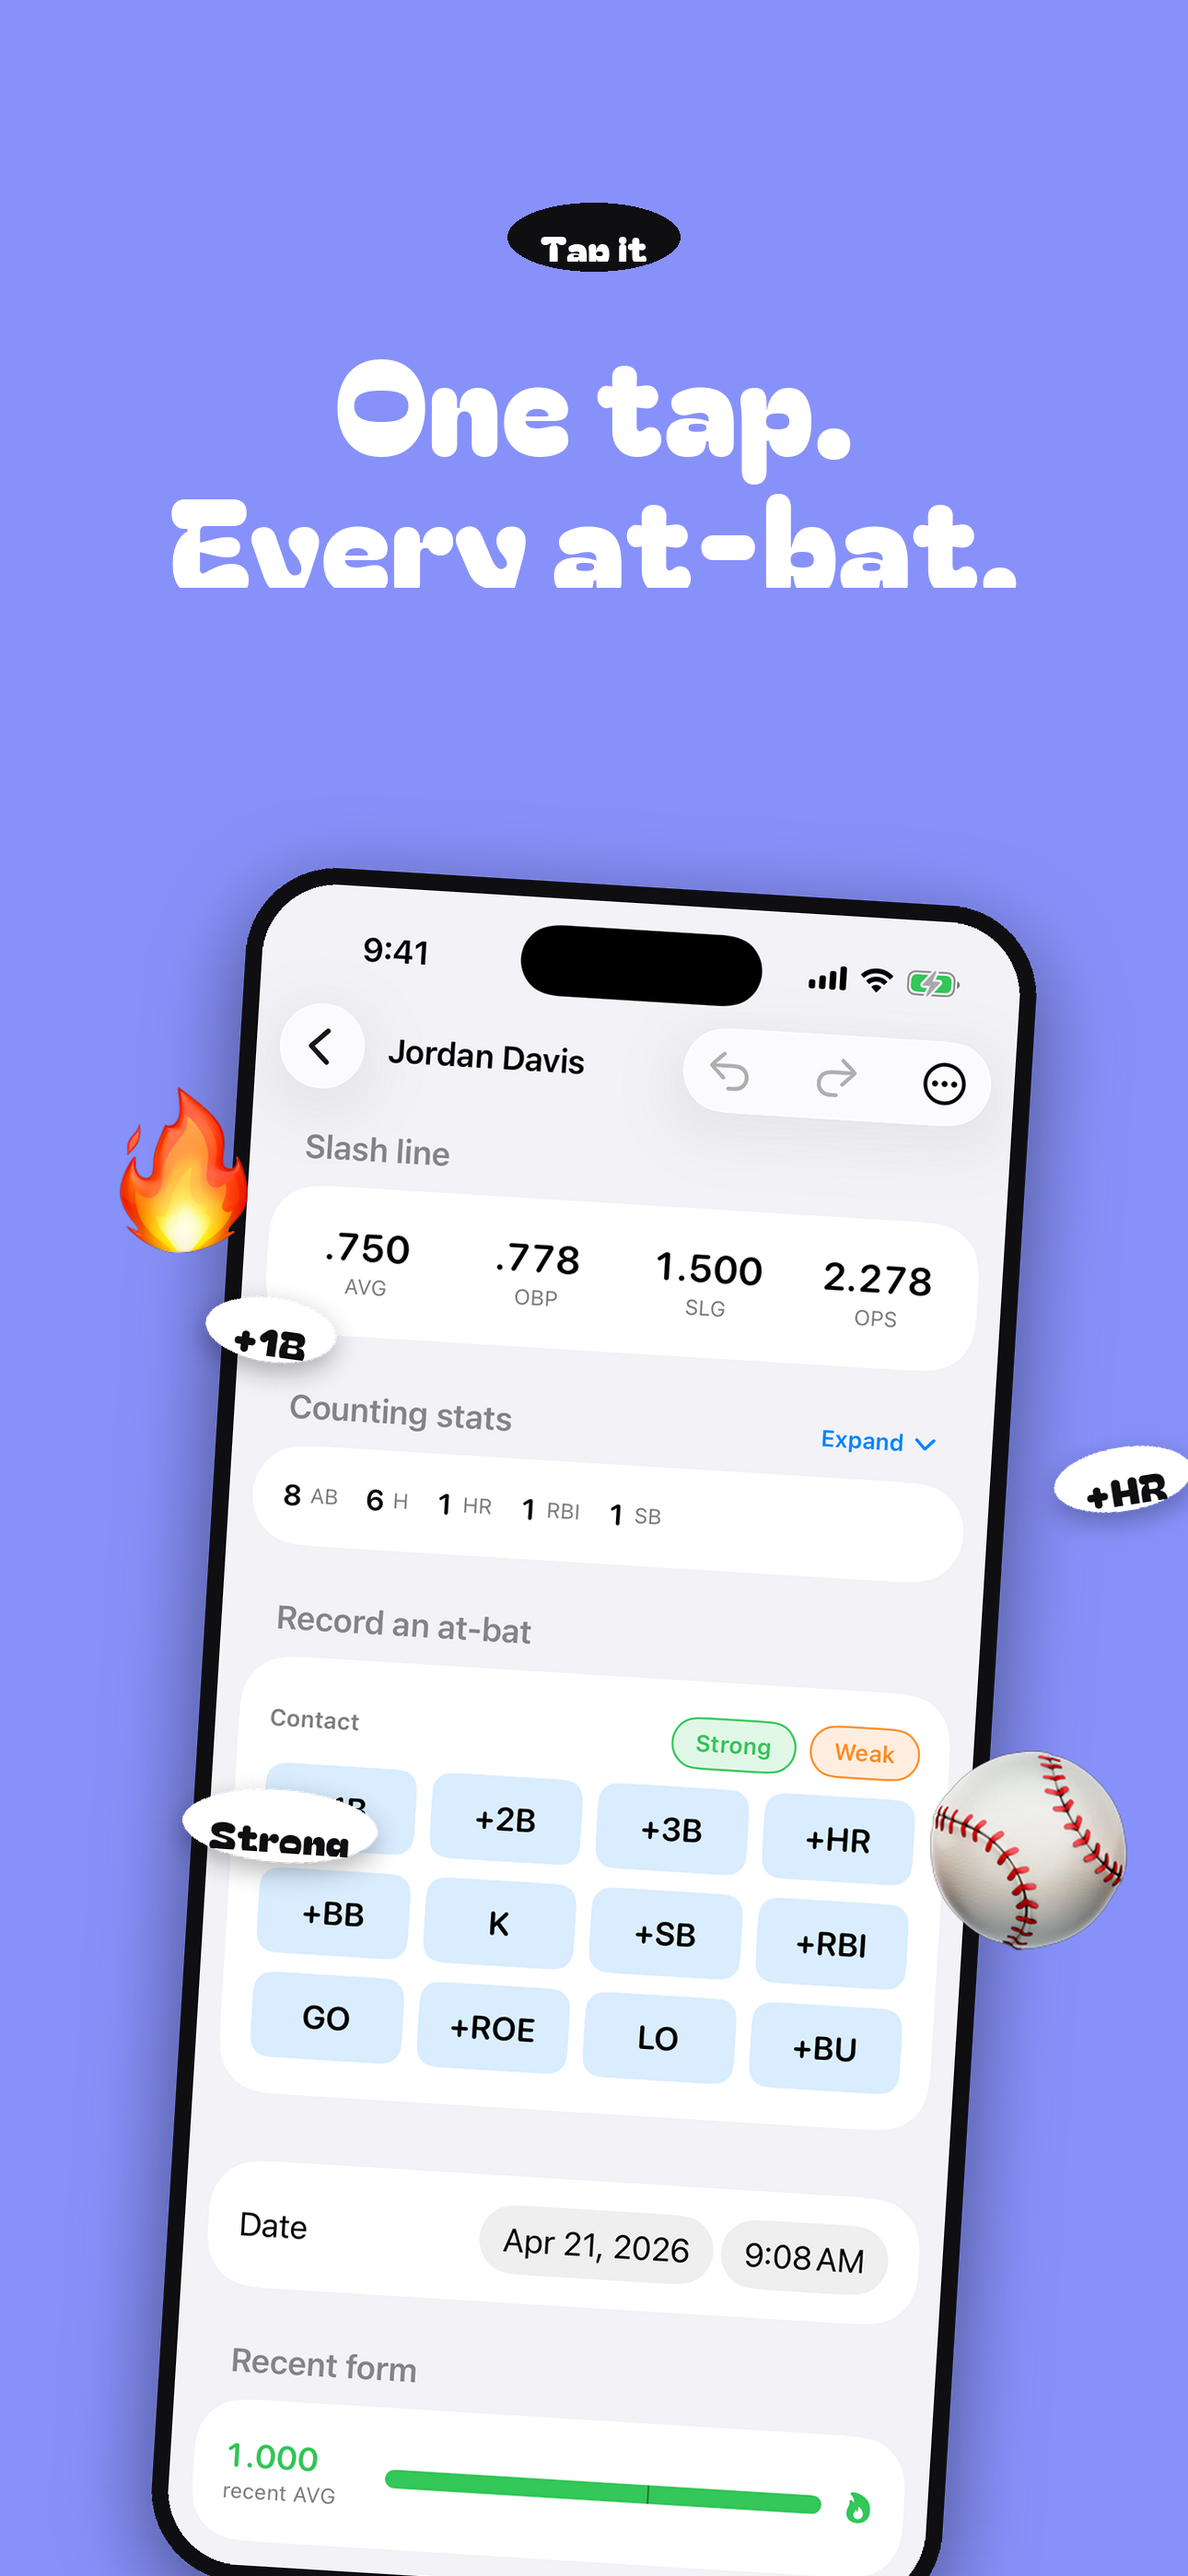
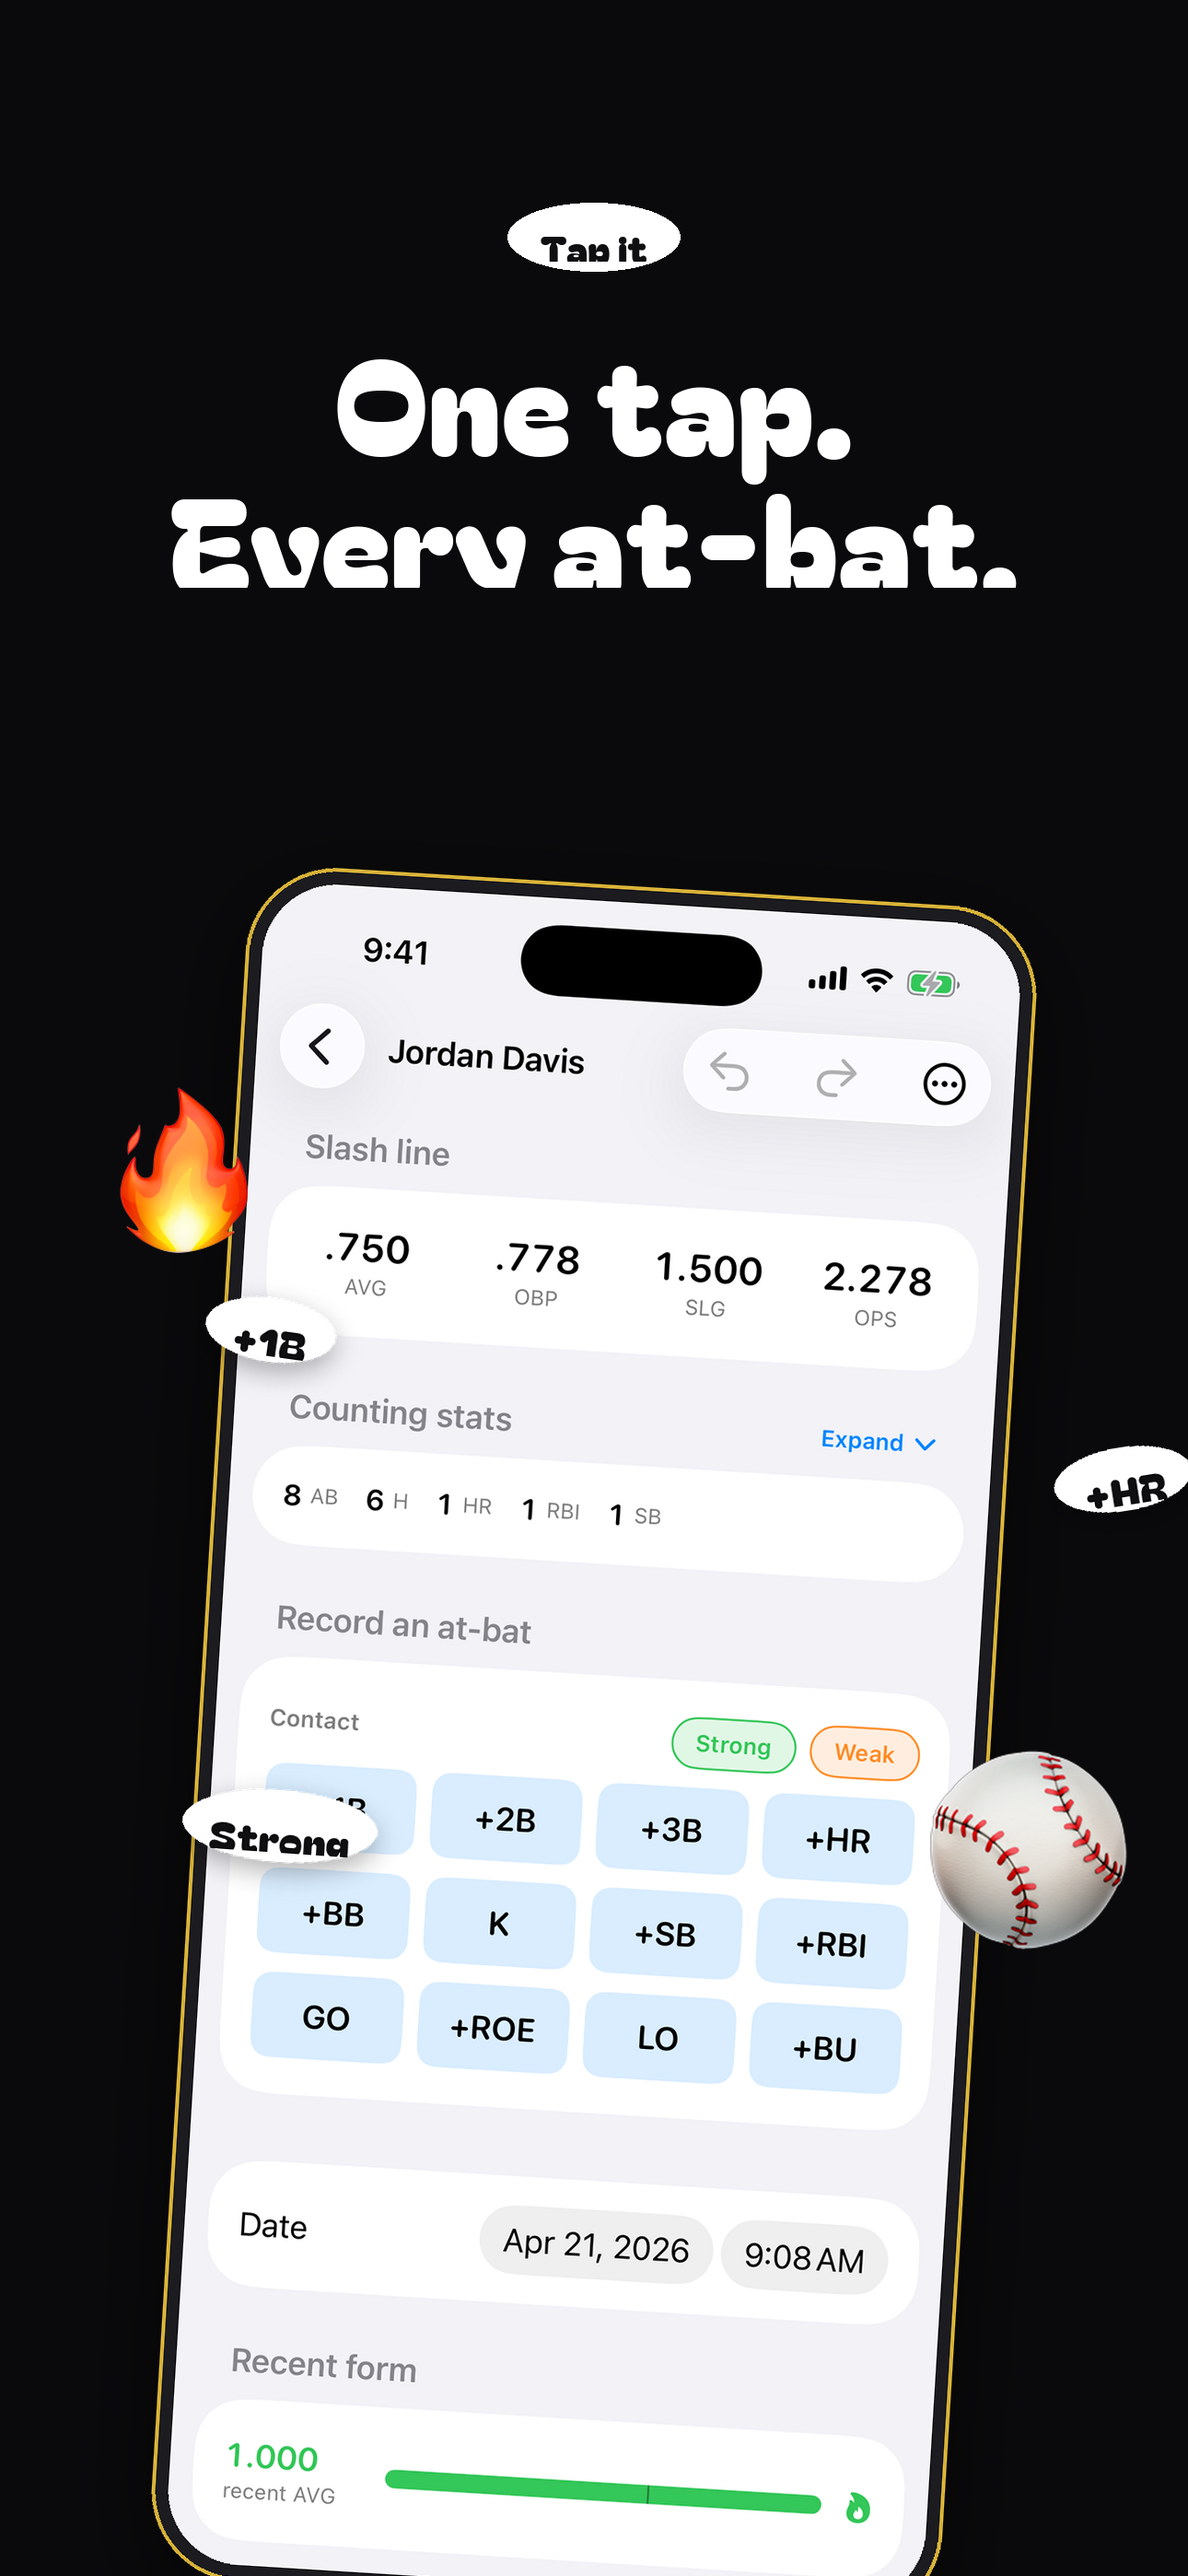
Switch marketing screenshots to black canvas
Bg flipped from lavender to near-black (#0A0A0C, the same value the
Barrel mark + banner already use). Tag pill inverted to white-on-black
so it still pops on the dark canvas. Phone body lifted to charcoal
(#1C1C20) with a thin gold ring + a stronger drop shadow so it
separates cleanly from the bg instead of disappearing into it.

diff --git a/scripts/compose_marketing_slay.py b/scripts/compose_marketing_slay.py
@@ -27,11 +27,13 @@ OUT.mkdir(parents=True, exist_ok=True)
 OUT_65.mkdir(parents=True, exist_ok=True)
 
 W, H = 1290, 2796  # APP_IPHONE_67 — covers iPhone 14/15/16/17 Pro Max
-BG = (135, 145, 250, 255)            # lavender / periwinkle blue
+BG = (10, 10, 12, 255)               # near-black, matches Barrel brand
 WHITE = (255, 255, 255, 255)
 BLACK = (15, 15, 18, 255)
 INK = (24, 24, 28, 255)
 SHADOW = (0, 0, 0, 90)
+GOLD = (212, 175, 55, 255)           # Barrel gold #D4AF37
+PHONE_BODY = (28, 28, 32, 255)       # charcoal — separates phone from bg
 
 DISPLAY = str(FONTS / "BagelFatOne-Regular.ttf")
 EMOJI = "/System/Library/Fonts/Apple Color Emoji.ttc"
@@ -113,8 +115,8 @@ def text_size(text: str, size: int):
 def tag_pill(text: str, size_pt: int = 38) -> Image.Image:
     tw, th = text_size(text, size_pt)
     pad_x, pad_y = 36, 14
-    pill = rounded_rect((tw + pad_x * 2, th + pad_y * 2 + 8), radius=999, fill=BLACK)
-    inner = text_layer(text, size_pt, color=WHITE, align="center")
+    pill = rounded_rect((tw + pad_x * 2, th + pad_y * 2 + 8), radius=999, fill=WHITE)
+    inner = text_layer(text, size_pt, color=BLACK, align="center")
     pill.alpha_composite(
         inner,
         ((pill.width - inner.width) // 2, (pill.height - inner.height) // 2),
@@ -160,8 +162,10 @@ def phone_mockup(screenshot_path: Path | None,
     p_w = width
     p_h = int(p_w * aspect)
     bezel = 18
-    # Body: black rounded rect
-    body = rounded_rect((p_w, p_h), radius=98, fill=BLACK)
+    # Body: charcoal so the phone is visible against the black canvas,
+    # with a thin gold ring to echo the Barrel brand mark.
+    body = rounded_rect((p_w, p_h), radius=98, fill=PHONE_BODY,
+                        stroke=GOLD, stroke_w=4)
     if screenshot_path and screenshot_path.exists():
         shot = Image.open(screenshot_path).convert("RGBA")
         # Resize shot to fill the inner area
@@ -185,7 +189,7 @@ def phone_mockup(screenshot_path: Path | None,
         ImageDraw.Draw(mask).rounded_rectangle((0, 0, inner_w - 1, inner_h - 1),
                                                 radius=80, fill=255)
         body.paste(shot, (bezel, bezel), mask)
-    body = drop_shadow(body, offset=(0, 28), blur=46, opacity=120)
+    body = drop_shadow(body, offset=(0, 28), blur=46, opacity=140)
     return rotated(body, rotation)
 
 
@@ -263,13 +267,14 @@ def synth_ai_phone(width: int = 920, rotation: float = -3.5) -> Image.Image:
     comp.alpha_composite(btn, (comp.width - 130, 22))
     screen.alpha_composite(comp, (40, composer_y))
 
-    # Compose into phone body
-    body = rounded_rect((p_w, p_h), radius=98, fill=BLACK)
+    # Compose into phone body (matches the photo-mockup styling)
+    body = rounded_rect((p_w, p_h), radius=98, fill=PHONE_BODY,
+                        stroke=GOLD, stroke_w=4)
     mask = Image.new("L", (inner_w, inner_h), 0)
     ImageDraw.Draw(mask).rounded_rectangle((0, 0, inner_w - 1, inner_h - 1),
                                             radius=80, fill=255)
     body.paste(screen, (bezel, bezel), mask)
-    body = drop_shadow(body, offset=(0, 28), blur=46, opacity=120)
+    body = drop_shadow(body, offset=(0, 28), blur=46, opacity=140)
     return rotated(body, rotation)
 
 
